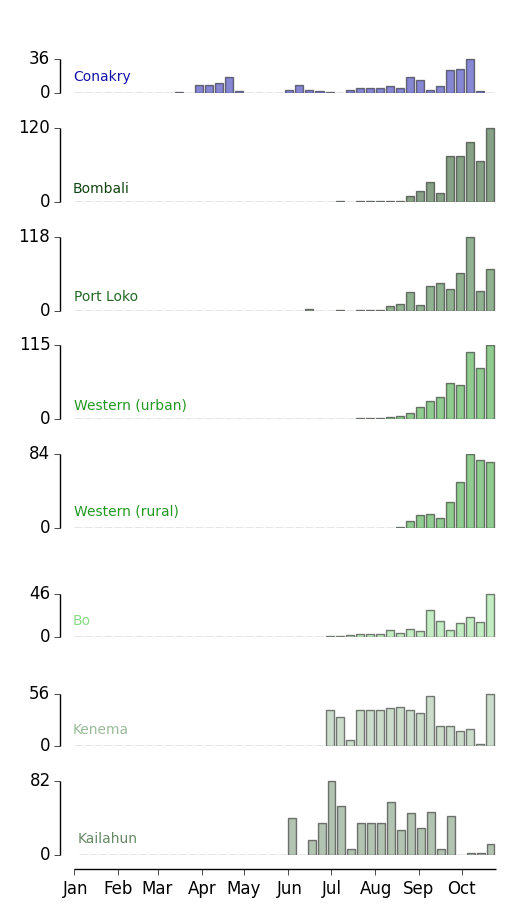
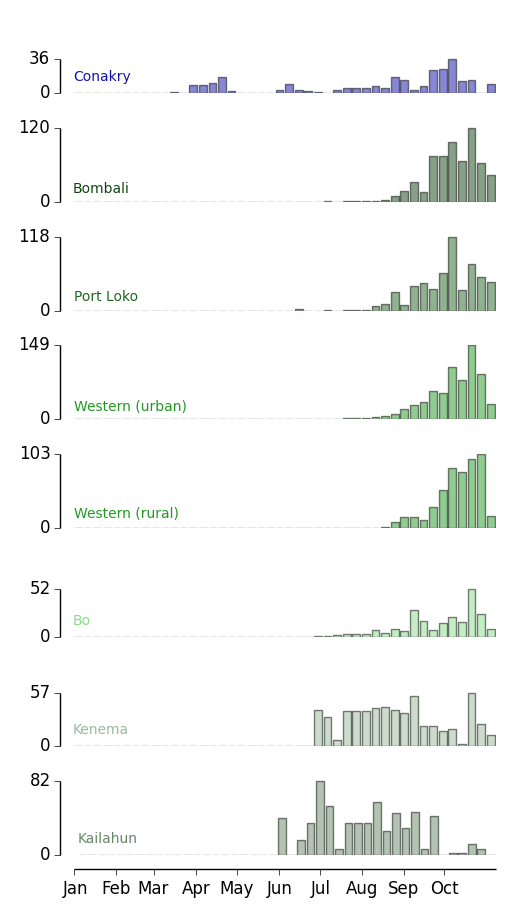
Update data through October 29th reports

diff --git a/scripts/plot_ebola_cases.py b/scripts/plot_ebola_cases.py
@@ -44,7 +44,7 @@ week_number_of_first_of_month=[d/7.0 for d in first_day_of_months]
 def plot_site(ax,country,district,color,labels=['left'], max_week_scale=50):
     plt.bar(week_numbers, cases[country][district], width=0.8, color=color, alpha=0.5)
     adjust_spines(ax,labels)
-    plt.xlim([0.5,42.5]) # weeks into early October
+    plt.xlim([0.5,44.5]) # weeks into late October
     plt.ylim([0,max(max_week_scale,max(cases[country][district])+1)]) # closer to equal scaling
     #plt.yticks(range(0,350,50))
     plt.yticks([min(cases[country][district]), max(cases[country][district])])
